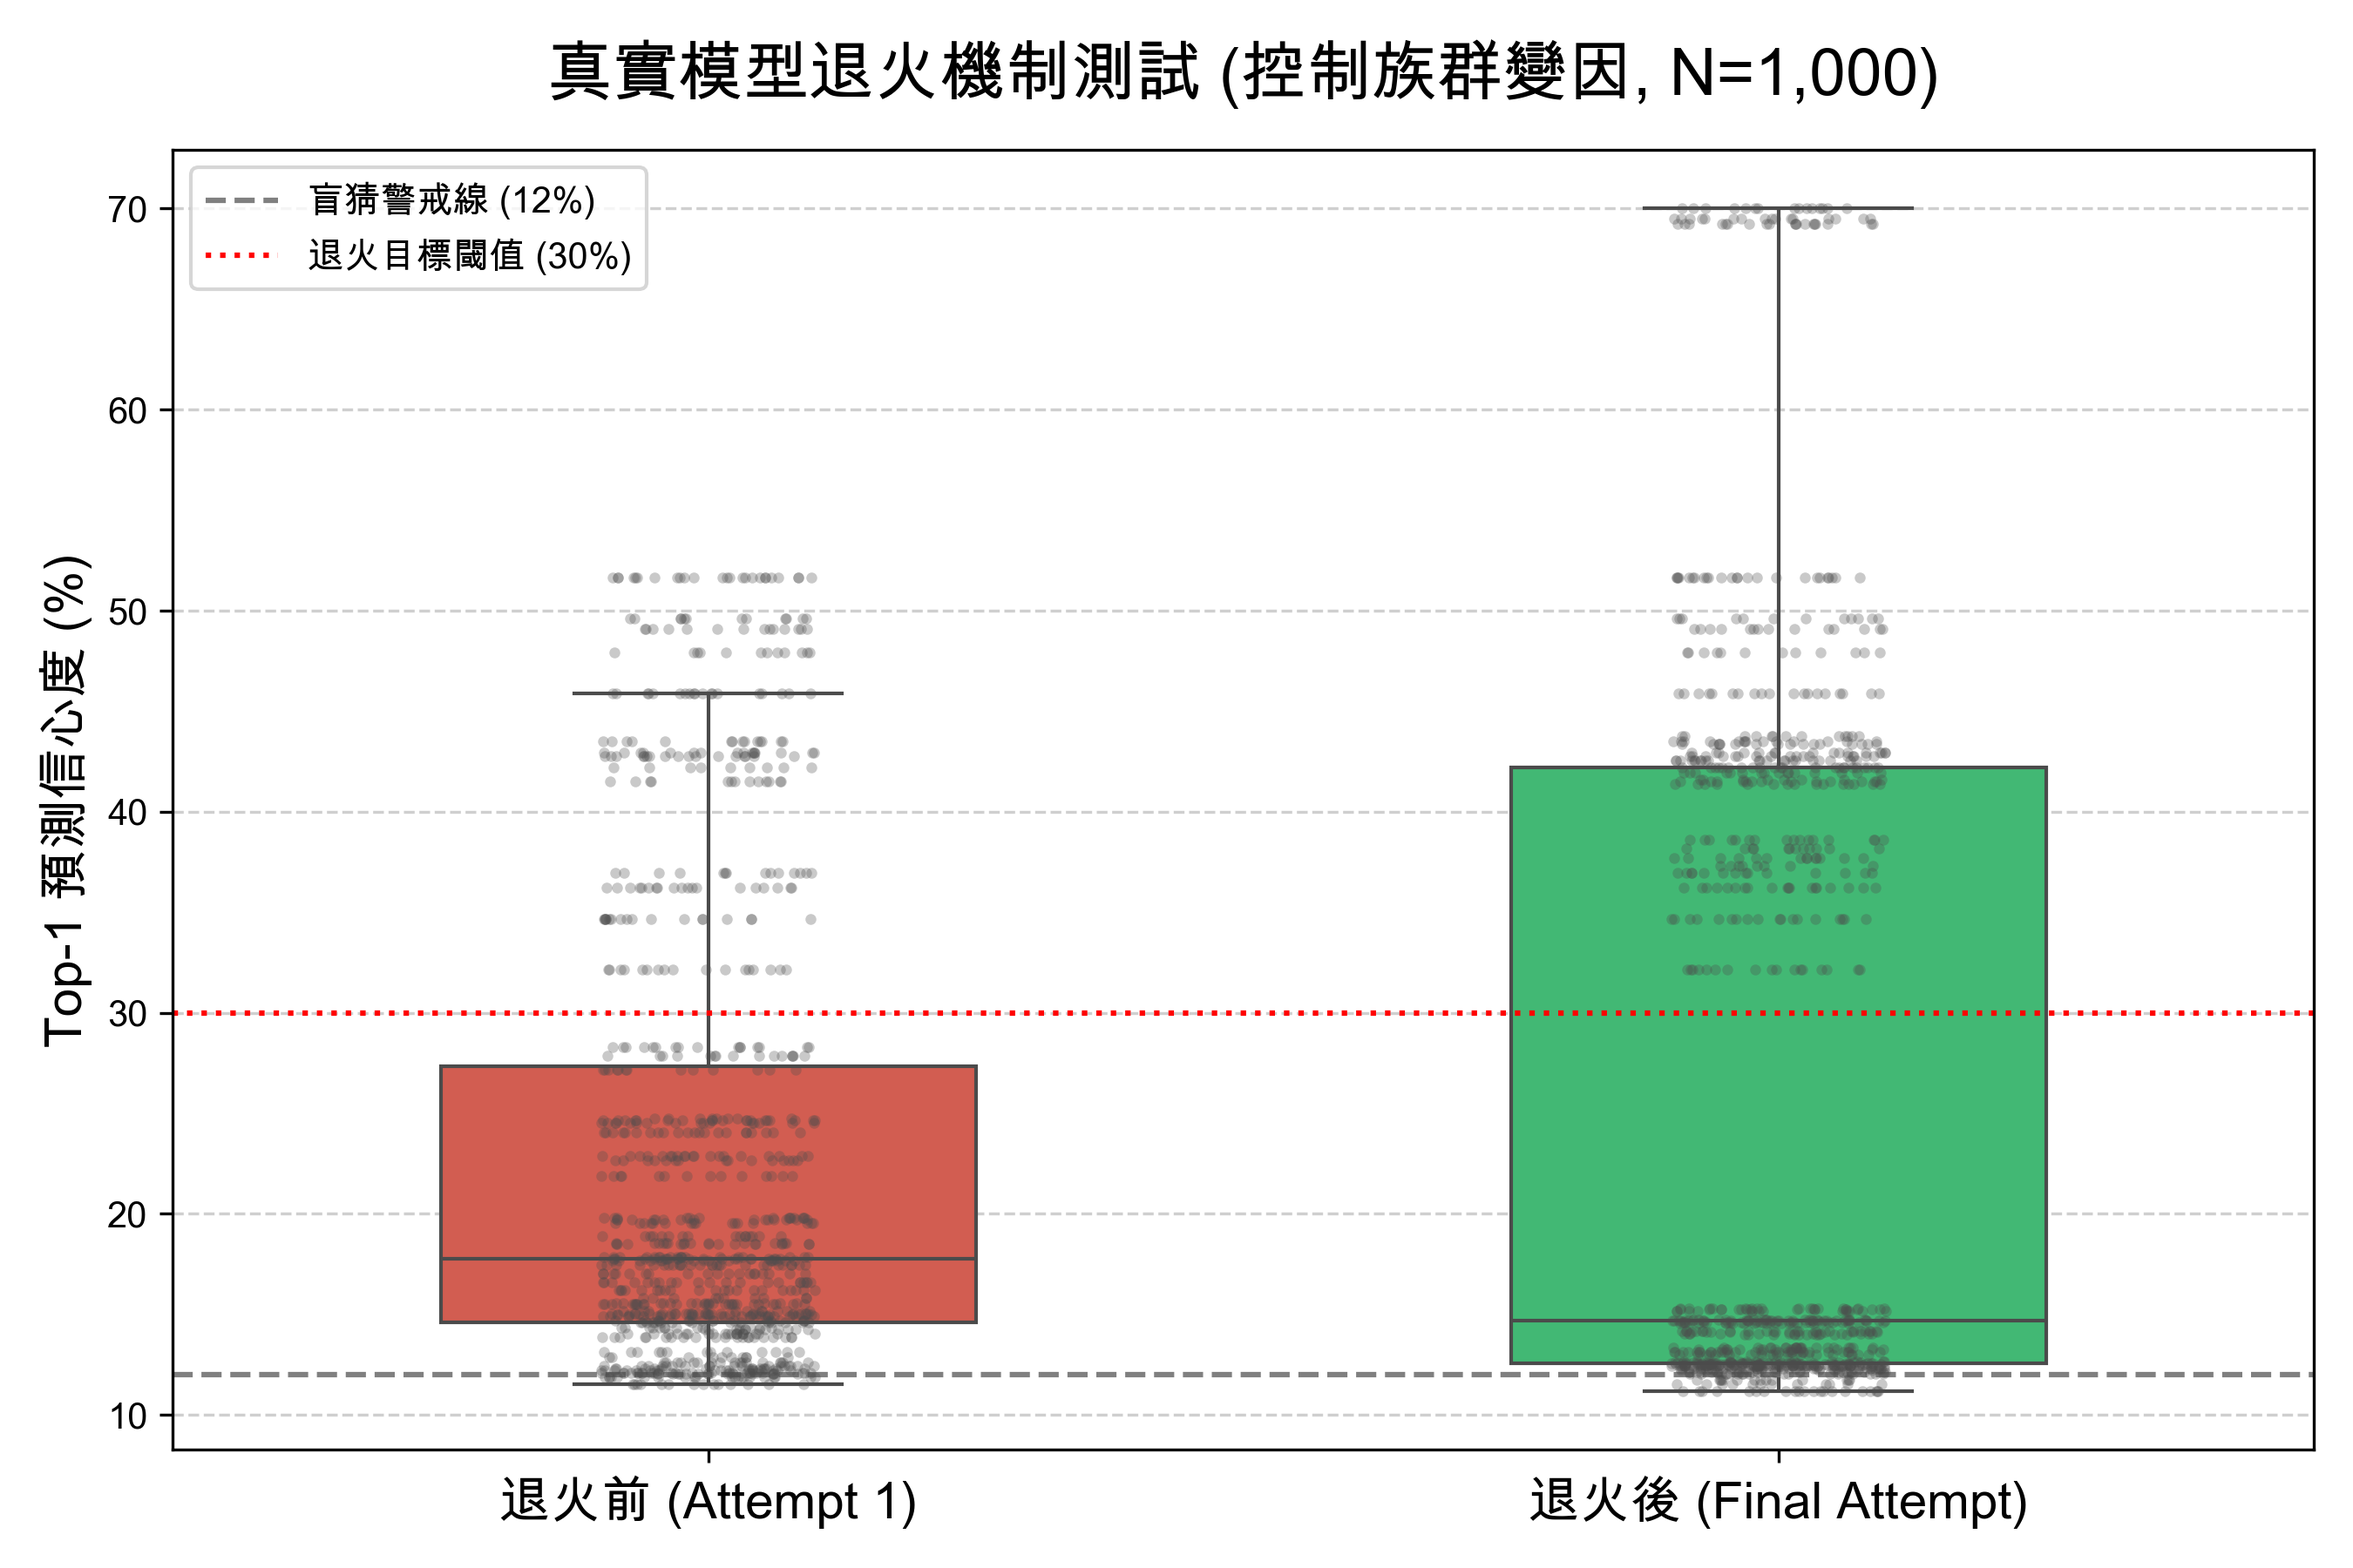
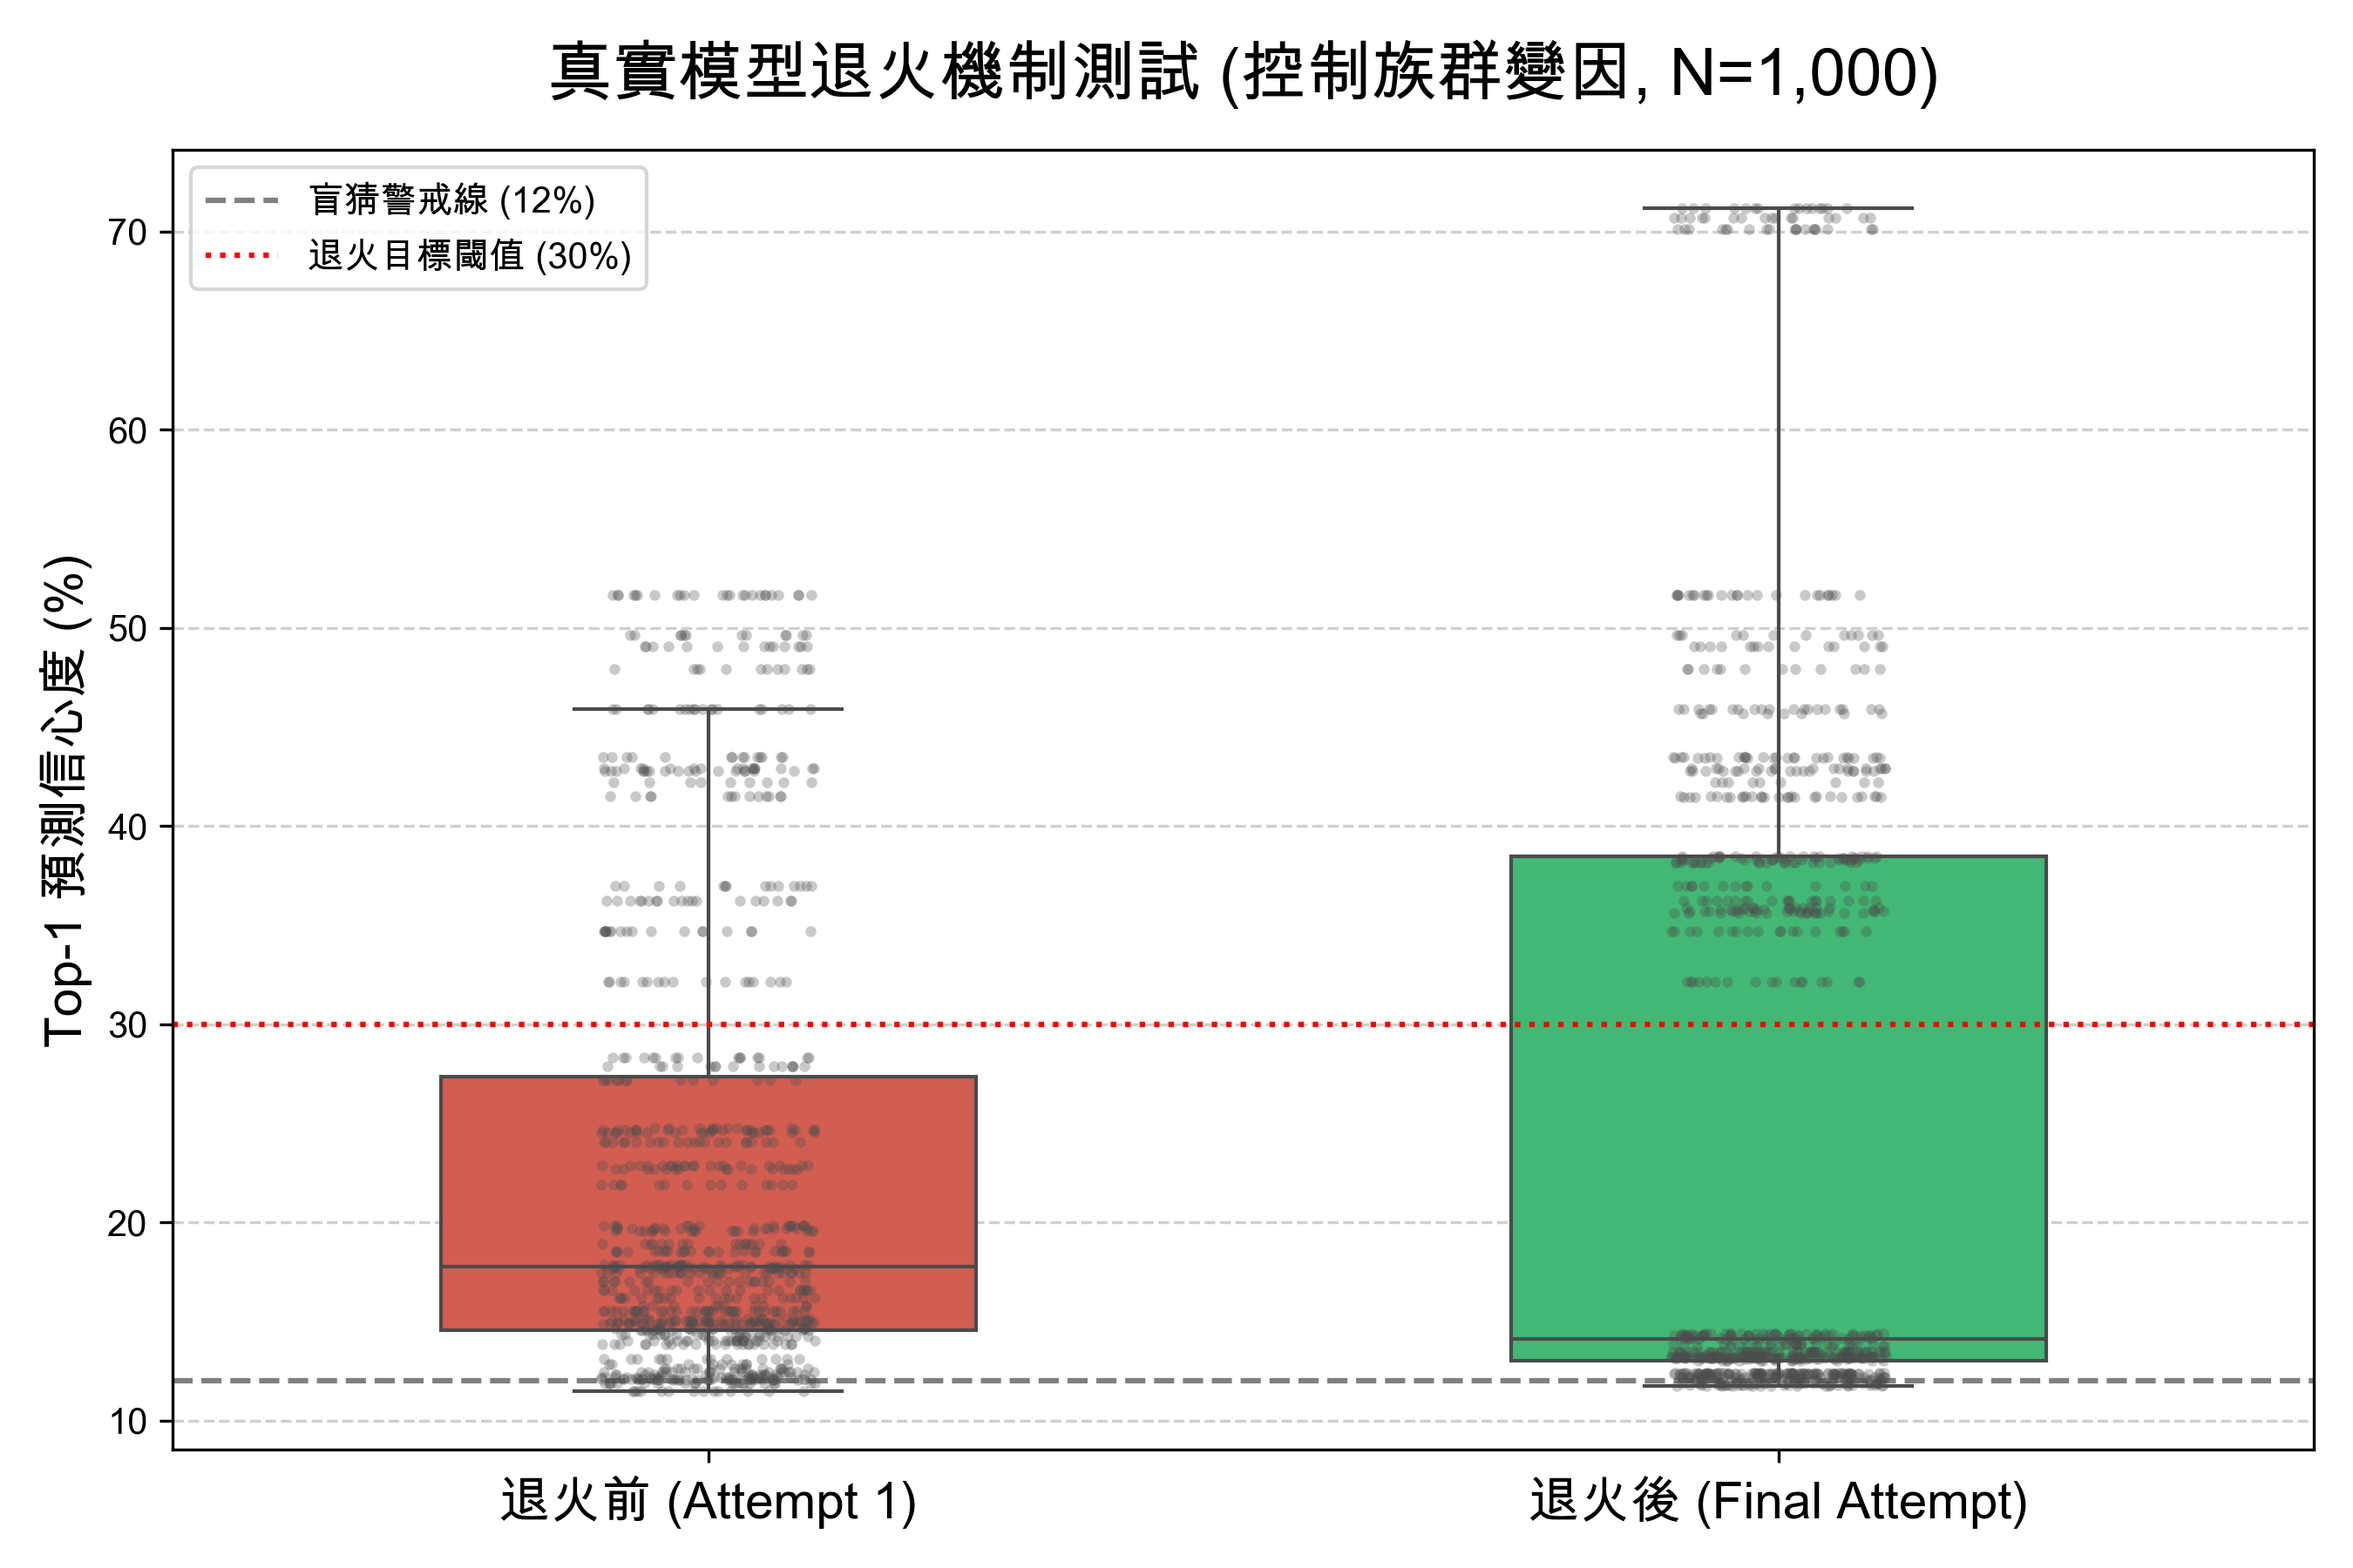
update: 新增真實壓力測試腳本、完成退火機制超參數調優(0.9)、更新期末報告圖表

diff --git a/main_pipeline.py b/main_pipeline.py
@@ -9,10 +9,9 @@ try:
     from model1_LSM import predict_all_colours
     from model2_classification import set_binary_category_input, model2_predict_top3, feature_cols
     HAS_TEAM_CODE = True
-    print("成功載入 Model 1 與 Model 2 模型")
-except ImportError as e:
+except Exception as e:     # 🌟 這裡把 ImportError 改成捕捉所有 Exception
     HAS_TEAM_CODE = False
-    print(f"無法載入模型檔案 ({e})。系統將切換至模擬模式。")
+    print(f"🚨 系統切換至模擬模式，因為匯入失敗！真實的錯誤原因是：{e}") # 🌟 把真正的死因印出來
 
 # 載入二進位映射表
 if os.path.exists("country_binary_mapping.csv") and os.path.exists("lang_binary_mapping.csv"):

diff --git a/stress_test.py b/stress_test.py
@@ -66,7 +66,7 @@ def run_annealing_isolation_test(user_profile, main_color, raw_user_emotions, co
         else:
             # 執行退火：向常態中位數 2.5 靠攏
             for k in current_emotions.keys():
-                current_emotions[k] = current_emotions[k] * 0.9 + 2.5 * 0.1
+                current_emotions[k] = current_emotions[k] * 0.85 + 2.5 * 0.15
             
     return prob_before_annealing, prob_after_annealing
 
